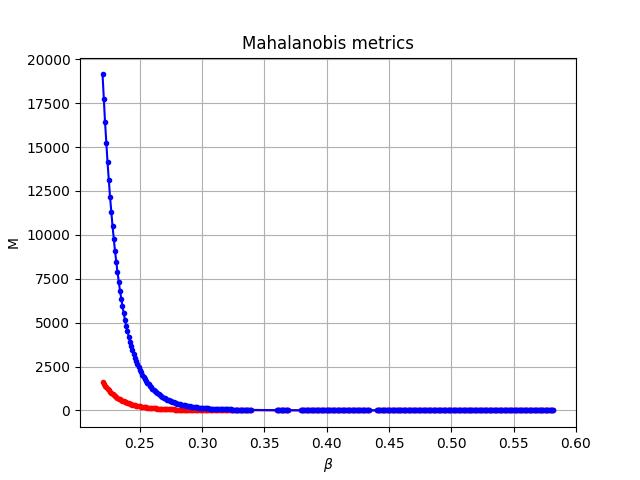
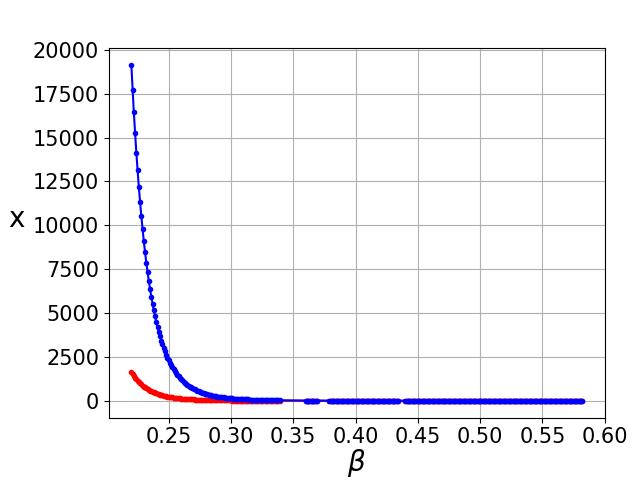
Upd

diff --git a/grpah/runner.py b/grpah/runner.py
@@ -1525,6 +1525,123 @@ def run_m_b_additive_noise():
     plotter.show_last()
 
 
+def run_machalanobis_alpha_noise():
+    p_range = np.arange(0.22, 0.582355932, 0.001)
+
+    values = bifurcation(
+        time_range=range(1, 100 + 1),
+        x_start=0.2,
+        p_range=p_range,
+        f=lambda b, x: function.f(1, b, x)
+    )
+
+    equilibrium = bifurcation_with_equilibrium(
+        b_range=p_range,
+        x12=0.12,
+        precision=0.0000001,
+        function=lambda b, x: others.h(1, b, x),
+        d_function=lambda b, x: others.h_dx(1, b, x),
+        # d_function=lambda b, x: functions.dh(1, b, x),
+        f=lambda b, x: function.f(1, b, x),
+        sf=lambda b, x, shift: function.f(1, b, x) - shift,
+        # sf=lambda b, x, shift: functions.sf(1, b, x, shift),
+        dsf=lambda b, x: function.f_dx(1, b, x),
+        # dsf=lambda b, x: functions.df(1, b, x),
+        bifurcation=values,
+        save_all=True
+    )
+
+    m_beta = m_b(
+        b_range=p_range,
+        a=1,
+        left1=0.44,
+        right1=0.582355932,
+        left2=0.379,
+        right2=0.435,
+        left3=0.36,
+        right3=0.37,
+        left4=0.22,
+        right4=0.34,
+        m=lambda a, b, x: functions_a_noise.m(a, b, x, 0),
+        values=values,
+        s=lambda b, x: functions_a_noise.s(1, b, x, 0.001),
+        q=lambda b, x: functions_a_noise.q(1, b, x, 0.001),
+        q_=functions_a_noise._q,
+        s_=functions_a_noise._s,
+        f=lambda b, x: function.f(1, b, x)
+    )
+
+    stable_equilibrium = equilibrium[1]
+    unstable_equilibrium = equilibrium[0]
+    prototype_equilibrium = equilibrium[2]
+
+    stable_equilibrium = convert_line_to_dict(stable_equilibrium)
+    unstable_equilibrium = convert_line_to_dict(unstable_equilibrium)
+    prototype_equilibrium = convert_line_to_dict(prototype_equilibrium)
+
+    # Что-то намудрил с m
+
+    line0 = convert_line_to_dict(m_beta[0])
+    line1 = convert_line_to_dict(m_beta[2])
+    line2 = convert_line_to_dict(m_beta[4])
+    line3 = convert_line_to_dict(m_beta[7])
+    lines = [line0, line1, line2, line3]
+
+    result = dict()
+    for b in stable_equilibrium.keys():
+        result[b] = 0
+
+    mahalanobis0 = Line()
+    mahalanobis1 = Line()
+    for b in result.keys():
+        y_s = None
+        if b in stable_equilibrium.keys():
+            y_s = stable_equilibrium[b]
+
+        y_n = None
+        if b in unstable_equilibrium.keys():
+            y_n = unstable_equilibrium[b]
+
+        y_p = None
+        if b in prototype_equilibrium.keys():
+            y_p = prototype_equilibrium[b]
+
+        for line in lines:
+            m = None
+            if b in line.keys():
+                m = line[b]
+
+            metrics0 = None
+            if y_s is not None and y_n is not None and m is not None:
+                metrics0 = abs(y_s - y_n) / np.sqrt(m)
+
+            metrics1 = None
+            if y_s is not None and y_p is not None and m is not None:
+                metrics1 = abs(y_s - y_p) / np.sqrt(m)
+
+            if metrics0 is not None:
+                mahalanobis0.add_x(b).add_y(metrics0)
+
+            if metrics1 is not None:
+                mahalanobis1.add_x(b).add_y(metrics1)
+
+    plotter = (Plotter()
+        .adjust(top=0.9, bottom=0.13, left=0.17, right=0.945)
+        .setup_x_label('$\\beta$', font_size=20, label_pad=0)
+        .setup_x_ticks(font_size=15)
+        .setup_y_label('x', font_size=20, label_pad=12)
+        .setup_y_ticks(font_size=15)
+        .setup_grid(grid.major))
+
+    # plotter = (Plotter()._setup('$\\beta$', 'M', 'linear', 'major', 'Mahalanobis metrics'))
+
+    plotter.plot_line(mahalanobis0, '.', 'red')
+    plotter.plot_line(mahalanobis1, '.', 'blue')
+
+    plotter.show_last()
+    # plotter.show()
+
+
 def run_machalanobis_beta_noise():
     p_range = np.arange(0.22, 0.582355932, 0.001)
 
@@ -1632,115 +1749,6 @@ def run_machalanobis_beta_noise():
 
     plotter.show_last()
     # plotter.show()
-
-
-def run_machalanobis_alpha_noise():
-    p_range = np.arange(0.22, 0.582355932, 0.001)
-
-    values = bifurcation(
-        time_range=range(1, 100 + 1),
-        x_start=0.2,
-        p_range=p_range,
-        f=lambda b, x: function.f(1, b, x)
-    )
-
-    equilibrium = bifurcation_with_equilibrium(
-        b_range=p_range,
-        x12=0.12,
-        precision=0.0000001,
-        function=lambda b, x: others.h(1, b, x),
-        d_function=lambda b, x: others.h_dx(1, b, x),
-        # d_function=lambda b, x: functions.dh(1, b, x),
-        f=lambda b, x: function.f(1, b, x),
-        sf=lambda b, x, shift: function.f(1, b, x) - shift,
-        # sf=lambda b, x, shift: functions.sf(1, b, x, shift),
-        dsf=lambda b, x: function.f_dx(1, b, x),
-        # dsf=lambda b, x: functions.df(1, b, x),
-        bifurcation=values,
-        save_all=True
-    )
-
-    m_beta = m_b(
-        b_range=p_range,
-        a=1,
-        left1=0.44,
-        right1=0.582355932,
-        left2=0.379,
-        right2=0.435,
-        left3=0.36,
-        right3=0.37,
-        left4=0.22,
-        right4=0.34,
-        m=lambda a, b, x: functions_a_noise.m(a, b, x, 0),
-        values=values,
-        s=lambda b, x: functions_a_noise.s(1, b, x, 0.001),
-        q=lambda b, x: functions_a_noise.q(1, b, x, 0.001),
-        q_=functions_a_noise._q,
-        s_=functions_a_noise._s,
-        f=lambda b, x: function.f(1, b, x)
-    )
-
-    stable_equilibrium = equilibrium[1]
-    unstable_equilibrium = equilibrium[0]
-    prototype_equilibrium = equilibrium[2]
-
-    stable_equilibrium = convert_line_to_dict(stable_equilibrium)
-    unstable_equilibrium = convert_line_to_dict(unstable_equilibrium)
-    prototype_equilibrium = convert_line_to_dict(prototype_equilibrium)
-
-    # Что-то намудрил с m
-
-    line0 = convert_line_to_dict(m_beta[0])
-    line1 = convert_line_to_dict(m_beta[2])
-    line2 = convert_line_to_dict(m_beta[4])
-    line3 = convert_line_to_dict(m_beta[7])
-    lines = [line0, line1, line2, line3]
-
-    result = dict()
-    for b in stable_equilibrium.keys():
-        result[b] = 0
-
-    mahalanobis0 = Line()
-    mahalanobis1 = Line()
-    for b in result.keys():
-        y_s = None
-        if b in stable_equilibrium.keys():
-            y_s = stable_equilibrium[b]
-
-        y_n = None
-        if b in unstable_equilibrium.keys():
-            y_n = unstable_equilibrium[b]
-
-        y_p = None
-        if b in prototype_equilibrium.keys():
-            y_p = prototype_equilibrium[b]
-
-        for line in lines:
-            m = None
-            if b in line.keys():
-                m = line[b]
-
-            metrics0 = None
-            if y_s is not None and y_n is not None and m is not None:
-                metrics0 = abs(y_s - y_n) / np.sqrt(m)
-
-            metrics1 = None
-            if y_s is not None and y_p is not None and m is not None:
-                metrics1 = abs(y_s - y_p) / np.sqrt(m)
-
-            if metrics0 is not None:
-                mahalanobis0.add_x(b).add_y(metrics0)
-
-            if metrics1 is not None:
-                mahalanobis1.add_x(b).add_y(metrics1)
-
-    plotter = (Plotter()._setup('$\\beta$', 'M', 'linear', 'major', 'Mahalanobis metrics'))
-
-    plotter.plot_line(mahalanobis0, '.', 'red')
-    plotter.plot_line(mahalanobis1, '.', 'blue')
-
-    # plotter.show_last()
-    plotter.show()
 
 
 def run_machalanobis_additive_noise():

diff --git a/grpah/main.py b/grpah/main.py
@@ -80,8 +80,8 @@ if __name__ == "__main__":
     # run_stochastic_sensitivity_a_noise_to_file()
     # run_stochastic_sensitivity_additive_noise_to_file()
 
-    # run_machalanobis_beta_noise()
     # run_machalanobis_alpha_noise()
+    run_machalanobis_beta_noise()
     # run_machalanobis_additive_noise()
 
     # run_euclid_beta_noise()
